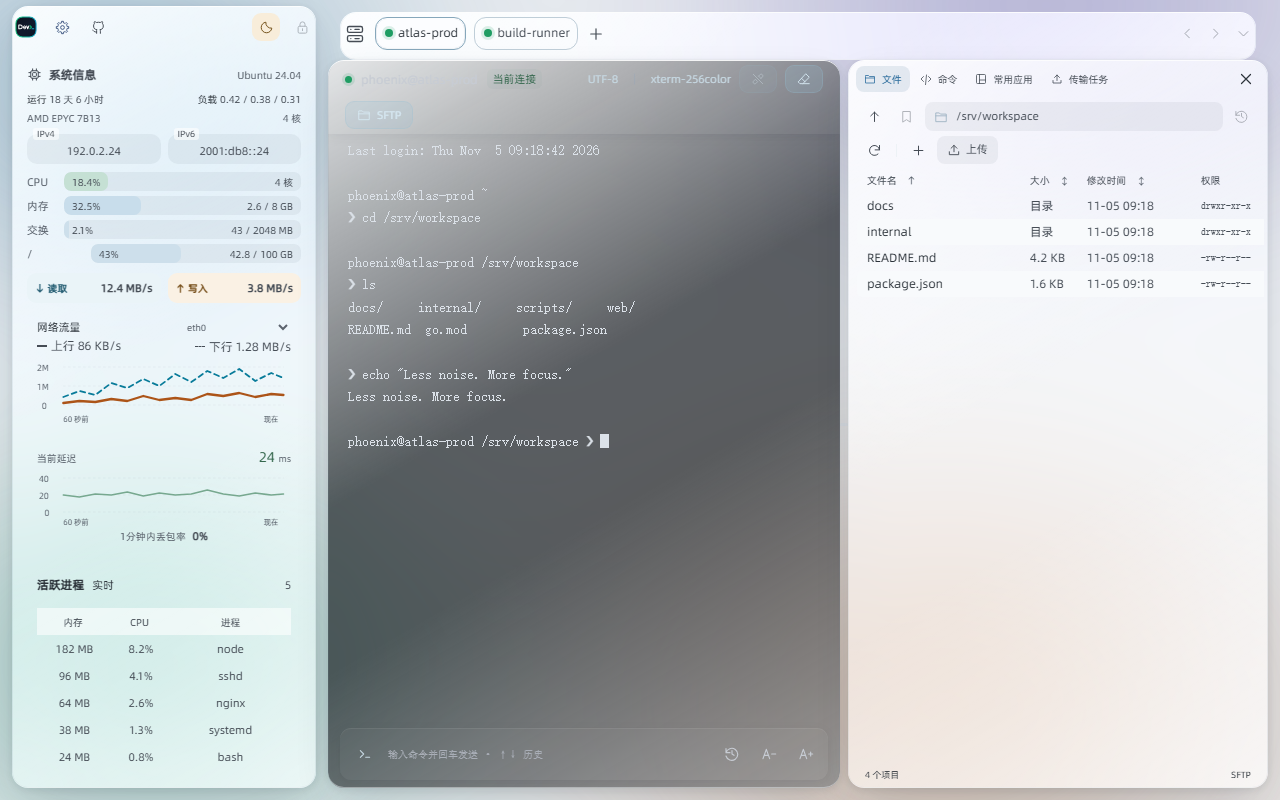
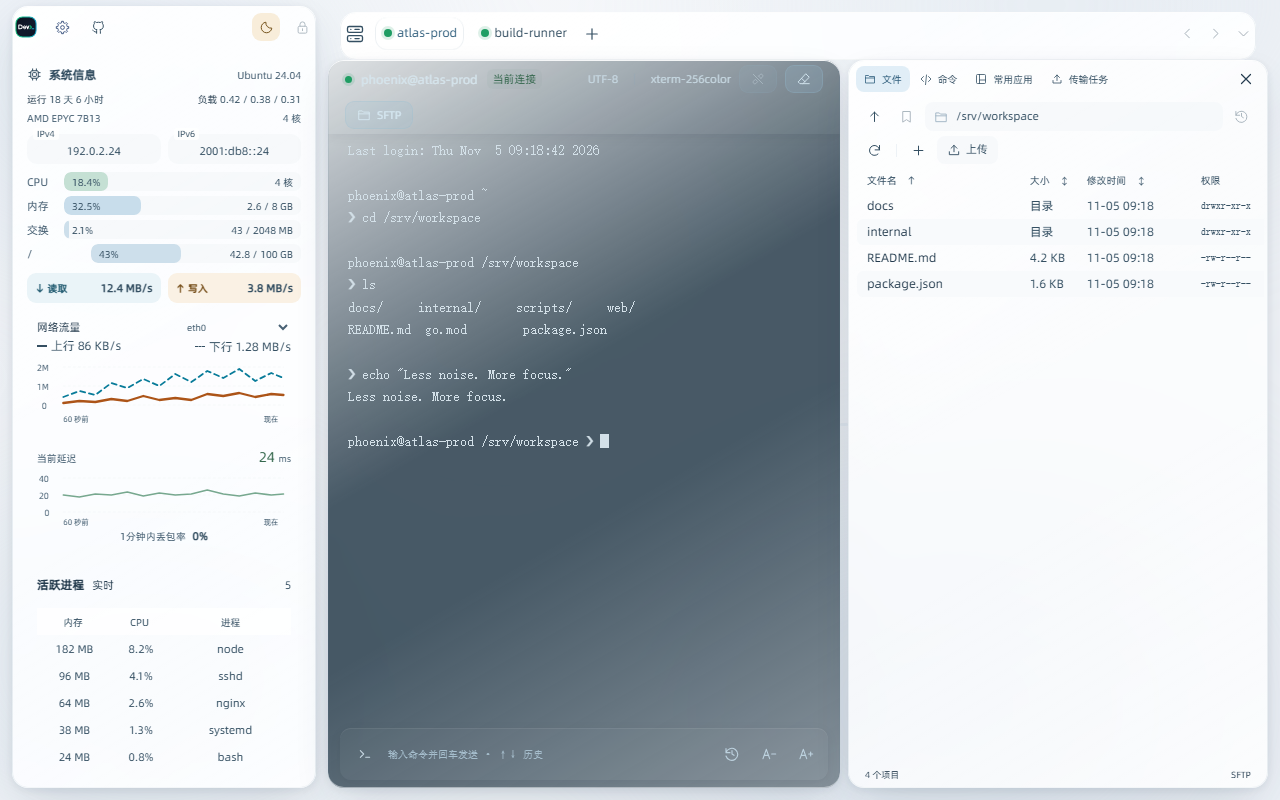
液态玻璃改为经典配色之上加玻璃材质
之前自造湖蓝湖青等冷调色板，与 shell 主内容区（终端石板蓝灰）
视觉打架。现按「先拷贝经典、只把面板填充改半透明」重做：文字、强调、
边框、终端色板全部原样继承经典，frosted 块只覆盖 --surface/--surface-inset
/--surface-hover/--surface-selected/--shadow/background 为经典同色加透明度；
底层光斑色相改取经典强调色同族的蓝，不再引入经典之外的颜色。
同步撤销 JS 里 frosted 定制墨色（appearance/ui-appearance/预览脚本）与
主题卡片文案；回退链与浅色深色一并统一到经典蓝灰家族。

验证：npm run check、test:theme、test:tcp 通过；重新生成预览，
浅色（经典白 + 石板蓝终端）深色（#181f26/#0f1419）截图确认与经典同族。

diff --git a/web/css/ui-styles.css b/web/css/ui-styles.css
@@ -30,14 +30,14 @@
 [data-theme="dark"] .ui-style-swatch-classic { background:#0f1419; }
 [data-theme="dark"] .ui-style-swatch-classic :is(i,b) { background:#24303a; }
 [data-theme="dark"] .ui-style-swatch-classic em { background:#0f161d; }
-.ui-style-swatch-frosted { background:#22252b; }
-.ui-style-swatch-frosted i { inset:0 auto 0 0; width:29%; border-radius:0; background:#2e3238b3; border-right:1px solid #ffffff20; box-shadow:inset -14px 0 26px -14px #4f97d466; }
-.ui-style-swatch-frosted b { background:#383c43cc; box-shadow:inset 0 1px #ffffff4d; }
-.ui-style-swatch-frosted em { background:#181a1da6; box-shadow:inset 0 1px #ffffff33,0 0 22px #4f97d433; }
-[data-theme="light"] .ui-style-swatch-frosted { background:#dde2e9; }
-[data-theme="light"] .ui-style-swatch-frosted i { background:#ffffff8c; border-color:#3c4d5f33; }
+.ui-style-swatch-frosted { background:#0f1419; }
+.ui-style-swatch-frosted i { inset:0 auto 0 0; width:29%; border-radius:0; background:#181f26b3; border-right:1px solid #ffffff26; box-shadow:inset -14px 0 26px -14px #658daf59; }
+.ui-style-swatch-frosted b { background:#181f26d9; box-shadow:inset 0 1px #ffffff3d; }
+.ui-style-swatch-frosted em { background:#0f161db3; box-shadow:inset 0 1px #ffffff2e,0 0 22px #658daf3d; }
+[data-theme="light"] .ui-style-swatch-frosted { background:#e7edf3; }
+[data-theme="light"] .ui-style-swatch-frosted i { background:#ffffffa6; border-color:#658daf33; }
 [data-theme="light"] .ui-style-swatch-frosted b { background:#ffffffd9; box-shadow:inset 0 1px #fff; }
-[data-theme="light"] .ui-style-swatch-frosted em { background:#1d2126bf; box-shadow:inset 0 1px #ffffff2e; }
+[data-theme="light"] .ui-style-swatch-frosted em { background:#223746cc; box-shadow:inset 0 1px #ffffff2e; }
 .ui-style-swatch-polar { background:#20242c; }
 .ui-style-swatch-polar i { background:#2e3440dd; border-right:1px solid #434c5e; }
 .ui-style-swatch-polar b { background:#3b4252; }
@@ -57,46 +57,49 @@
 #ui-styles-dialog .ui-style-status { margin:0; min-height:18px; font-size:12px; color:var(--muted); }
 @media(max-width:520px) { #ui-styles-dialog { padding:18px; } .ui-style-grid { gap:10px; } .ui-style-swatch { height:88px; } }
 
-/* —— 液态玻璃：折射底层色彩并在边缘聚光的半透明材质（经典配色不受影响）。
-   区别于平铺磨砂：面板更透明、底衬采样加强饱和，让底层流动的光色透过玻璃；
-   边缘高光与内阴影模拟透镜聚光，表面罩一层镜面光泽，配长而弥散的投影，
-   面板像悬浮在内容之上的玻璃板。样式键保持 frosted，仅展示名改为液态玻璃。 —— */
+/* —— 液态玻璃：在经典主题原版配色之上加折射玻璃材质。
+   文字、强调色、边框、终端色板全部原样继承经典，不改色板；只是面板填充
+   变为半透明：背景模糊折射、边缘聚光高光、镜面光泽与长投影让它像悬浮
+   的玻璃板。样式键保持 frosted，展示名为液态玻璃。 —— */
 :root[data-ui-style="frosted"][data-theme] {
-  --glass-base:#2a2c30; --glass-sheen:linear-gradient(150deg,#ffffff22,#ffffff00 42%,#ffffff00 58%,#ffffff0f);
-  --glass-surface:rgb(45 47 51 / .66); --glass-toolbar:rgb(56 58 62 / .64);
-  --glass-sidebar:rgb(45 47 51 / .68); --glass-popup:rgb(48 50 54 / .84); --glass-input:rgb(232 240 250 / .07);
-  --glass-terminal:rgb(19 21 23 / .64); --glass-solid:#313338; --glass-terminal-solid:#1b1d20;
-  --glass-edge:inset 0 1px 0 #ffffff55,inset 0 -1px 0 #ffffff14,inset 0 0 0 1px #ffffff14;
-  --surface:var(--glass-surface); --surface-inset:var(--glass-input); --surface-hover:#ffffff12; --surface-selected:#9fc4e024;
-  --text:#e7eaf0; --text-secondary:#c9cdd5; --muted:#a9adb6; --text-faint:#979ca6; --accent:#93c2e8; --border:#ffffff20;
-  --focus-surface:#93c2e826; --focus-input:#3a3d42; --primary-focus:#5f89ab; --shadow:0 16px 44px -12px #00000066,0 2px 10px #00000038;
-  color-scheme:dark; background:var(--glass-base); color:var(--text);
+  --glass-base:#0f1419;
+  --glass-sheen:linear-gradient(150deg,#ffffff1a,#ffffff00 42%,#ffffff00 58%,#ffffff0c);
+  --glass-surface:rgb(24 31 38 / .7); --glass-toolbar:rgb(24 31 38 / .68);
+  --glass-sidebar:rgb(21 28 35 / .66); --glass-popup:rgb(24 31 38 / .88); --glass-input:rgb(19 26 33 / .62);
+  --glass-terminal:rgb(15 22 29 / .8); --glass-solid:#181f26; --glass-terminal-solid:#0f161d;
+  --glass-edge:inset 0 1px 0 #ffffff30,inset 0 -1px 0 #ffffff0d,inset 0 0 0 1px #ffffff10;
+  --surface:var(--glass-surface); --surface-inset:var(--glass-input);
+  --surface-hover:rgb(36 48 58 / .6); --surface-selected:rgb(33 57 72 / .72);
+  --shadow:0 16px 44px -12px #00000080,0 2px 10px #00000044;
+  color-scheme:dark; background:var(--glass-base);
 }
 :root[data-ui-style="frosted"][data-theme="light"] {
-  --glass-base:#e9ecf0; --glass-sheen:linear-gradient(150deg,#ffffffd8,#ffffff00 44%,#ffffff00 60%,#ffffff66);
-  --glass-surface:rgb(255 255 255 / .58); --glass-toolbar:rgb(255 255 255 / .64);
-  --glass-sidebar:rgb(255 255 255 / .48); --glass-popup:rgb(252 253 255 / .84); --glass-input:rgb(35 55 75 / .06);
-  --glass-terminal:rgb(23 26 30 / .68); --glass-solid:#f3f5f7; --glass-terminal-solid:#1b1e21;
-  --glass-edge:inset 0 1px 0 #ffffffe0,inset 0 -1px 0 #ffffff66,inset 0 0 0 1px #7f93a724;
-  --surface:var(--glass-surface); --surface-inset:var(--glass-input); --surface-hover:#2f42560e; --surface-selected:#38678d1f;
-  --text:#2c333a; --text-secondary:#454c55; --muted:#5c646e; --text-faint:#707881; --accent:#2f6f9e; --border:#38495b22;
-  --focus-surface:#38678d1e; --focus-input:#fffffff2; --primary-focus:#2f6f9e; --shadow:0 16px 44px -12px #26364633,0 2px 10px #26364617;
+  --glass-base:#f0f3f7;
+  --glass-sheen:linear-gradient(150deg,#ffffffd0,#ffffff00 44%,#ffffff00 60%,#ffffff59);
+  --glass-surface:rgb(255 255 255 / .72); --glass-toolbar:rgb(255 255 255 / .74);
+  --glass-sidebar:rgb(255 255 255 / .66); --glass-popup:rgb(255 255 255 / .9); --glass-input:rgb(244 247 249 / .75);
+  --glass-terminal:rgb(34 55 70 / .82); --glass-solid:#ffffff; --glass-terminal-solid:#223746;
+  --glass-edge:inset 0 1px 0 #ffffffe6,inset 0 -1px 0 #ffffff7a,inset 0 0 0 1px #64809a1f;
+  --surface:var(--glass-surface); --surface-inset:var(--glass-input);
+  --surface-hover:#e9eef4cc; --surface-selected:#d6e8f4b8;
+  --shadow:0 16px 44px -12px #293f5630,0 2px 10px #293f5614;
   color-scheme:light;
 }
-[data-ui-style="frosted"][data-theme="light"] body::before { opacity:.42; }
-[data-ui-style="frosted"][data-theme="light"] :is(.primary-button,.dialog-actions .primary-button) { background:#2f6f9e; color:#fff; }
 [data-ui-style="frosted"] body { background:var(--glass-base); color:var(--text); isolation:isolate; }
+[data-ui-style="frosted"][data-theme="light"] body { background:radial-gradient(ellipse at 15% 0%,#f9fafc,#f0f3f7 70%); }
 /* 底层大色斑缓慢漂移，为玻璃提供可折射的流动光色——液态玻璃的「液态」。
-   深色下压低强度：光色是透过玻璃的折射，不该把画布染浊。 */
-[data-ui-style="frosted"] body::before { content:""; position:fixed; z-index:-1; pointer-events:none; inset:-14%; opacity:.45;
-  background:radial-gradient(38% 44% at 22% 22%,#35708f,#0000 62%),radial-gradient(42% 38% at 76% 14%,#4a418f,#0000 64%),radial-gradient(46% 50% at 70% 80%,#8a5a35,#0000 62%),radial-gradient(40% 42% at 24% 76%,#2a7a66,#0000 64%);
-  filter:blur(80px) saturate(1.25); animation:liquid-drift 36s ease-in-out infinite alternate; }
+   色相取经典强调色同族的蓝：光色是折射，不引入经典色板之外的颜色。 */
+[data-ui-style="frosted"] body::before { content:""; position:fixed; z-index:-1; pointer-events:none; inset:-14%; opacity:.5;
+  background:radial-gradient(38% 44% at 22% 22%,#31536e,#0000 62%),radial-gradient(42% 38% at 76% 14%,#25405a,#0000 64%),radial-gradient(46% 50% at 70% 80%,#1c3145,#0000 62%),radial-gradient(40% 42% at 24% 76%,#3a5f7d,#0000 64%);
+  filter:blur(80px); animation:liquid-drift 36s ease-in-out infinite alternate; }
+[data-ui-style="frosted"][data-theme="light"] body::before {
+  background:radial-gradient(38% 44% at 22% 22%,#c9d8e6,#0000 62%),radial-gradient(42% 38% at 76% 14%,#d7e2ec,#0000 64%),radial-gradient(46% 50% at 70% 80%,#c2d2e1,#0000 62%),radial-gradient(40% 42% at 24% 76%,#d3e0ea,#0000 64%); }
 @keyframes liquid-drift { from { transform:translate3d(-2.5%,-1.5%,0) scale(1.05); } to { transform:translate3d(2.5%,2%,0) scale(1.14); } }
-[data-ui-style="frosted"] .sidebar { background:var(--glass-sheen),var(--glass-sidebar); backdrop-filter:blur(26px) saturate(1.7) brightness(1.04); -webkit-backdrop-filter:blur(26px) saturate(1.7) brightness(1.04); box-shadow:var(--glass-edge),inset -1px 0 var(--border),var(--shadow); }
+[data-ui-style="frosted"] .sidebar { background:var(--glass-sheen),var(--glass-sidebar); backdrop-filter:blur(26px) saturate(1.2) brightness(1.03); -webkit-backdrop-filter:blur(26px) saturate(1.2) brightness(1.03); box-shadow:var(--glass-edge),inset -1px 0 var(--border),var(--shadow); }
 /* 宽屏下监控栏是与终端、文件面板同语言的悬浮玻璃卡：16px 圆角、四周留
    网格缝、同一套边缘高光与投影；栏内卡片仍全部融入卡面，不再成盒。
    窄屏抽屉保持通高面板避免压字。 */
-:root:not([data-narrow="true"])[data-ui-style="frosted"] .sidebar { background:var(--glass-sheen),var(--glass-sidebar); box-shadow:var(--glass-edge),var(--shadow); backdrop-filter:blur(26px) saturate(1.7) brightness(1.04); -webkit-backdrop-filter:blur(26px) saturate(1.7) brightness(1.04); border-radius:16px; }
+:root:not([data-narrow="true"])[data-ui-style="frosted"] .sidebar { background:var(--glass-sheen),var(--glass-sidebar); box-shadow:var(--glass-edge),var(--shadow); backdrop-filter:blur(26px) saturate(1.2) brightness(1.03); -webkit-backdrop-filter:blur(26px) saturate(1.2) brightness(1.03); border-radius:16px; }
 /* 玻璃面上不留硬描边：芯片只靠底面色差成块，面板内分隔用明暗差完成，
    不出现直角发丝线。输入控件的细边框保留（那是控件，不是卡片）。 */
 [data-ui-style="frosted"] .address-copy { border:0; border-radius:10px; }
@@ -107,31 +110,25 @@
    列表行内保留极淡的发丝线即可。 */
 [data-ui-style="frosted"] .sidebar :is(.system-section,.host-card,.disk-section,.network-card,.process-card,.process-details,.disk-resources,.disk-io) { background:transparent; border:0; border-radius:0; box-shadow:none; backdrop-filter:none; -webkit-backdrop-filter:none; }
 [data-ui-style="frosted"] .sidebar :is(.disk-row + .disk-row,.process-table tbody tr + tr,.metric + .metric,.file-status) { border-color:var(--border); }
-[data-ui-style="frosted"] .files-panel { background:var(--glass-sheen),var(--glass-surface); box-shadow:var(--glass-edge),var(--shadow); backdrop-filter:blur(22px) saturate(1.7); -webkit-backdrop-filter:blur(22px) saturate(1.7); }
+[data-ui-style="frosted"] .files-panel { background:var(--glass-sheen),var(--glass-surface); box-shadow:var(--glass-edge),var(--shadow); backdrop-filter:blur(22px) saturate(1.2); -webkit-backdrop-filter:blur(22px) saturate(1.2); }
 /* Keep fixed window controls relative to the viewport: backdrop-filter on the
    header itself would create a new containing block for the floating brand. */
 [data-ui-style="frosted"] .session-bar { position:relative; isolation:isolate; background:transparent; backdrop-filter:none; -webkit-backdrop-filter:none; margin:6px var(--workspace-inset) 0; border-radius:16px; }
-[data-ui-style="frosted"] .session-bar::before { content:""; position:absolute; z-index:-1; inset:0; pointer-events:none; background:var(--glass-sheen),var(--glass-toolbar); border-radius:inherit; box-shadow:var(--glass-edge); backdrop-filter:blur(24px) saturate(1.7) brightness(1.04); -webkit-backdrop-filter:blur(24px) saturate(1.7) brightness(1.04); }
+[data-ui-style="frosted"] .session-bar::before { content:""; position:absolute; z-index:-1; inset:0; pointer-events:none; background:var(--glass-sheen),var(--glass-toolbar); border-radius:inherit; box-shadow:var(--glass-edge); backdrop-filter:blur(24px) saturate(1.2) brightness(1.03); -webkit-backdrop-filter:blur(24px) saturate(1.2) brightness(1.03); }
 [data-ui-style="frosted"] .session-bar .brand { border-color:var(--border); }
 [data-ui-style="frosted"] .session-bar .window-controls { background:var(--surface-inset); }
-[data-ui-style="frosted"] .session-tab { color:var(--muted); background:transparent; }
-[data-ui-style="frosted"] .session-tab.active { background:var(--glass-popup); color:var(--text); box-shadow:var(--glass-edge); }
-[data-ui-style="frosted"] .terminal-panel { background:var(--glass-sheen),var(--glass-terminal); box-shadow:var(--glass-edge),var(--shadow); backdrop-filter:blur(22px) saturate(1.5); -webkit-backdrop-filter:blur(22px) saturate(1.5); }
+[data-ui-style="frosted"] .session-tab { background:transparent; border:0; border-radius:12px; }
+[data-ui-style="frosted"] .session-tab.active { background:var(--glass-popup); box-shadow:var(--glass-edge); }
+[data-ui-style="frosted"] .terminal-panel { background:var(--glass-sheen),var(--glass-terminal); box-shadow:var(--glass-edge),var(--shadow); backdrop-filter:blur(22px) saturate(1.15); -webkit-backdrop-filter:blur(22px) saturate(1.15); }
 [data-ui-style="frosted"] .terminal-panel::before,[data-ui-style="frosted"] .terminal-panel::after { display:none; background-image:none; }
 [data-ui-style="frosted"] .terminal-panel :is(.terminal-meta,.terminal-command-bar) { background:#ffffff08; border-color:#ffffff16; backdrop-filter:none; -webkit-backdrop-filter:none; }
-[data-ui-style="frosted"] .terminal-panel :is(.terminal-tool,.terminal-protocol,#terminal-meta-host) { color:#c7ccd4; }
-[data-ui-style="frosted"] .terminal-panel .terminal-command-bar textarea { color:#dfe3e9; }
-[data-ui-style="frosted"] .terminal-panel .terminal-command-bar textarea::placeholder { color:#a9aeb7; }
-[data-ui-style="frosted"] .terminal-panel .terminal-tool:hover { background:#ffffff14; color:#fff; }
 [data-ui-style="frosted"] :is(dialog,.connections-drawer,.settings-menu,.popup-menu,.themed-select-popup) { background:var(--glass-sheen),var(--glass-popup); color:var(--text); border-color:var(--border); box-shadow:0 22px 64px #00000055,var(--glass-edge); backdrop-filter:blur(30px) saturate(1.6); -webkit-backdrop-filter:blur(30px) saturate(1.6); }
 [data-ui-style="frosted"] :is(.specs,.cpu-model,.metric,.chart-caption,.process-heading,.disk-row,.file-status,.file-table,.tree-row,.tree-shortcut,.connection-card-text,.drawer-heading h2,dialog h2,.brand) { color:var(--text); }
 [data-ui-style="frosted"] :is(.process-table,.file-table) :is(th,td),[data-ui-style="frosted"] .system-section :is(h2,b,strong) { color:var(--text-secondary); border-color:var(--border); }
 [data-ui-style="frosted"] :is(.file-table thead,.files-toolbar,.file-tabs,.file-status,.directory-tree,.commands-toolbar,.transfer-notice) { background:transparent; border-color:var(--border); }
 [data-ui-style="frosted"] :is(.file-search,.path-form,.connection-search,.meter,dialog input,dialog select,dialog textarea,.server-icon,.themed-select-trigger,.count-badge,.upload-button) { background:var(--glass-input); color:var(--text); border-color:var(--border); }
 [data-ui-style="frosted"] :is(.connection-card,.tree-row,.tree-shortcut,.file-tab).selected,[data-ui-style="frosted"] .file-tab.active,[data-ui-style="frosted"] .file-table tr.selected { background:var(--surface-selected); color:var(--accent); }
-[data-ui-style="frosted"] :is(.primary-button,.dialog-actions .primary-button) { background:#5f89ab; color:#f2f7fc; }
 [data-ui-style="frosted"] button:focus-visible { outline:2px solid var(--accent); outline-offset:2px; }
-[data-ui-style="frosted"] :is(#appearance-dialog .font-list .font-sample,.font-preview,.ui-color-sample.dark,.color-dialog-preview,#diagnostics-output) { background:var(--glass-terminal-solid); color:#dbe1e8; border-color:var(--border); }
 /* Stable opaque equivalents preserve readability when transparency is unavailable. */
 @supports not ((backdrop-filter:blur(1px)) or (-webkit-backdrop-filter:blur(1px))) {
   [data-ui-style="frosted"] body::before { display:none; }

diff --git a/web/js/help-guide.js b/web/js/help-guide.js
@@ -18,7 +18,7 @@
     { id: 'monitor', title: '系统、进程与磁盘', icon: 'cpu', html: `<p>左侧上方以对应操作系统图标和完整名称突出显示发行版，并显示当前服务器的运行时间、CPU、内存、交换空间和负载；活跃进程常驻显示前五，可按 CPU 或内存切换排名。点击进程区域打开独立的完整进程标签，支持按 PID、名称或状态搜索，以及 CPU、内存、PID、状态和名称排序。每页显示 50、100 或 200 行；每个服务器保留自己的搜索和分页。可暂停自动刷新，切走进程标签后停止该页面请求。完整列表的 RSS 使用轻量内核计数，估算值带“≈”；侧栏只对前五候选精读内存。大量进程或采集较慢时自动降低刷新频率，失败会保留上次数据并提示。</p><p>网络流量每<strong>1秒</strong>独立采样，负载、CPU、内存和磁盘速率每<strong>5秒</strong>采样；网卡元信息和磁盘容量约30秒刷新。每条已连接SSH的网卡流量在后台持续记录，切换标签或最小化也保留最近30秒真实历史；回到标签时立即显示。负载、CPU、内存和磁盘等其它采样仍按可见状态请求。网络使用远端实际时间差计算，SSH或TUN返回延迟不会被当成远端采样间隔。读数明确标注“上行”和“下行”，例如上行4.0 KiB/s、下行819 B/s。默认上行橙色实线、下行蓝色虚线，可在“设置 → 外观配置 → 曲线样式”中分别调整颜色、粗细和线型；刻度按最近<strong>60秒</strong>数据自动切换B/s、KiB/s、MiB/s、GiB/s刻度（1024进位），新峰值立即扩大范围，较小范围稳定5秒后缩小。缺测保留断点，不填入假零值。下方磁盘区域汇总已挂载本地磁盘文件系统的已用、可用和总计空间，包括独立的 /home、/data 等分区；同一文件系统的重复挂载只计算一次，排除内存盘、网络挂载、容器叠加层及 SWAP。容量以文件系统报告值为准，不包含未挂载空间，可用空间可能因文件系统保留空间而少于总计减已用。容器或存储池根文件系统无法安全合计时，保留根文件系统容量。读写速度仍显示在下方，悬停容量区域可查看参与汇总的路径。</p><p>IPv4/IPv6面板只显示可确认的公网地址，点击复制，悬停查看来源；可能显示SSH入口或网卡地址。NAT入口不等于服务器出口，无法确认时显示“—”。真实内网地址仍保留在网卡菜单提示中。</p><p>这些数值来自远程服务器的周期采样，不是本机硬件数据。刚连接时需要等待首轮采样；部分权限或系统接口不可用时可能显示“—”。较窄窗口可通过顶部芯片图标打开侧栏。</p>` },
     { id: 'network', title: 'ICMP 与 MTR 网络诊断', icon: 'network', html: `<p>ICMP 区域展示本机到服务器的当前延迟、最近 1 分钟丢包率和延迟连续曲线。曲线从左到右由旧到新，经过真实采样并保留峰值；丢包和缺测位置断开。刻度与曲线使用同一坐标系；左侧毫秒刻度按当前样本调整，非零起点有断轴标记。成功回包使用同一种颜色，红叉代表超时或不可达（延迟未知），灰点代表待回包或本机探测不可用。悬停可查看时间、读数和状态，也可聚焦图表后用左右方向键逐项查看。</p><p>点击网络区域可打开 MTR 诊断。可以从本机探测服务器，也可以从远程服务器探测你指定的目标，查看每一跳的响应和可用的 ASN 信息。</p><ul><li>缺少 <code>mtr</code> 时，界面会显示安装方案和命令，只有明确确认后才开始安装。</li><li>需要交互验证时，按提示在对应终端完成；安装后可以重新检测。</li><li>中间路由器可能不响应或限制探测包，单个中间节点不回复不能直接判断业务流量丢包。</li><li>代理、TUN、路由和目标是否允许 ICMP，都会影响结果。ICMP 数值不是 SSH 会话的按键响应计时。</li></ul>` },
     { id: 'fonts', title: '字体、加粗与文字颜色', icon: 'type', html: `<p>左上角设置 → 外观配置 → <strong>Shell 字体与颜色</strong>打开字体管理器。内置 JetBrains Mono、Fira Code、Source Code Pro、IBM Plex Mono、Maple Mono CN 五款字体，Maple 同时补齐中文。在线字体库提供 30 款 Shell 字体，确认后下载并保存到本机；也可导入 TTF、OTF、WOFF、WOFF2 字体。</p><ul><li>点击字体卡片立即切换终端字体；字号控件与终端 A− / A+ 均按 <strong>0.5 px</strong> 调整，范围为 8–40 px。可输入例如 14.5，选择会保存，重启后保留。</li><li>每张卡片都有独立的<strong>加粗</strong>和<strong>颜色</strong>控件，颜色按钮打开可拖动的配色窗口。可用预设色、颜色选择器、RGB 数值或 HEX 颜色。</li><li>当前字体的修改立即预览；修改其他卡片只保存那款字体的样式，切换过去后再应用。</li><li>字体管理器可拖动，不遮暗终端，方便观察真实显示效果。可以删除自行导入的字体。</li></ul><p>外观配置中的<strong>提示符颜色</strong>可分别调整 @ 前的用户名和 @ 后的主机名，支持预设色、RGB、HEX 和拖动预览；Bash / Zsh / Fish 在下次提示符出现时生效，两项选择“保持原样”恢复原提示符。终端默认文字颜色可自定义，远程程序主动设置的 ANSI 颜色仍保留其含义。自定义字体的符号覆盖和等宽效果取决于字体本身。</p>` },
-    { id: 'appearance', title: '背景、主题、布局与缩放', icon: 'image', html: `<p>设置 → 外观配置 → <strong>背景管理器</strong>可选择内置背景或导入 PNG、JPG、WebP 图片，并调整显示强度。选择后立即应用；面板可拖动，自定义背景可删除。</p><ul><li>外观配置中的<strong>终端 ANSI 颜色</strong>提供柔和、高饱和、鲜亮三套 16 色预设，本地调整 ls、vim 等程序彩色文件名等语义色，切换即时生效；真彩色与 256 色不受影响。</li><li>外观配置中的<strong>全局主题</strong>提供经典、液态玻璃、极地、夜幕四种整套界面材质，切换会重绘面板、菜单、对话框与强调色，并与明暗模式、字体、ANSI、背景与布局互相独立；液态玻璃面板高度透明并加强底衬饱和，底层光色透过玻璃折射流动、边缘带聚光高光与镜面光泽，不使用背景图（原背景选择会保留），系统不支持透明模糊或开启减少透明度时自动回退同色实底；极地为 Nord 式北极冷调，夜幕为 Tokyo Night 式深夜蓝紫，两者两种明暗下终端都保持深色阅读底。选择后立即生效并保存。</li><li>外观配置中的<strong>明暗跟随系统</strong>让Windows和Linux随桌面偏好切换主题，选择会保存。左上角太阳 / 月亮按钮手动切换浅色和深色时会退出跟随；重新打开该开关即可恢复。系统变化和手动变化都使用开灯/关灯渐变。</li><li>默认最小窗口宽度为 1100 px（小屏幕以可用工作区为限）。监控栏宽度固定为 304 px，右侧 SFTP 面板宽度固定为 420 px；打开右侧面板会扩展窗口，关闭时收回扩展的宽度。最大化或屏幕空间不足时自动调整缩放，保证工具按钮可见。上方、下方的 SFTP 面板仍可拖动分隔条调整高度；SFTP 面板的位置（终端下方／右侧／上方）统一在设置的「SFTP面板」中选择，面板内右上角的按钮只用于关闭面板；「跟随终端目录」也同样是设置中的下拉选择，默认开启。</li><li>设置中的<strong>界面缩放</strong>调整整个应用；终端的字号按钮只改变终端文字。</li><li>设置中的<strong>简洁模式</strong>一键隐藏监控面板、SFTP 面板与终端标题栏（含断开、固定、SFTP 按钮），并把底部命令输入条自动收起为左侧按钮（点按钮可临时展开）；关闭开关后监控面板与标题栏恢复，SFTP 面板不自动展开，需要时手动打开。</li><li>窗口较小时会适当限制实际缩放，避免控件被挤出窗口；放大窗口后恢复所选比例。</li><li>外观配置中的<strong>主题管理</strong>把当前整套外观（明暗模式、全局主题、界面与终端字体颜色、ANSI 预设、背景与强度、终端字号、曲线样式、提示符颜色）保存为独立主题：从当前外观新建，支持应用、重命名、复制与两步确认删除。应用时整套生效；主题引用的字体或背景若已被删除会报错并保持当前外观不变。主题不影响布局与界面缩放。</li><li>外观配置中的“恢复默认布局”恢复布局和终端字号。</li></ul>` },
+    { id: 'appearance', title: '背景、主题、布局与缩放', icon: 'image', html: `<p>设置 → 外观配置 → <strong>背景管理器</strong>可选择内置背景或导入 PNG、JPG、WebP 图片，并调整显示强度。选择后立即应用；面板可拖动，自定义背景可删除。</p><ul><li>外观配置中的<strong>终端 ANSI 颜色</strong>提供柔和、高饱和、鲜亮三套 16 色预设，本地调整 ls、vim 等程序彩色文件名等语义色，切换即时生效；真彩色与 256 色不受影响。</li><li>外观配置中的<strong>全局主题</strong>提供经典、液态玻璃、极地、夜幕四种整套界面材质，切换会重绘面板、菜单、对话框与强调色，并与明暗模式、字体、ANSI、背景与布局互相独立；液态玻璃沿用经典配色，只把面板换成高度透明的折射玻璃，底层光色透过玻璃流动、边缘带聚光高光与镜面光泽，不使用背景图（原背景选择会保留），系统不支持透明模糊或开启减少透明度时自动回退同色实底；极地为 Nord 式北极冷调，夜幕为 Tokyo Night 式深夜蓝紫，两者两种明暗下终端都保持深色阅读底。选择后立即生效并保存。</li><li>外观配置中的<strong>明暗跟随系统</strong>让Windows和Linux随桌面偏好切换主题，选择会保存。左上角太阳 / 月亮按钮手动切换浅色和深色时会退出跟随；重新打开该开关即可恢复。系统变化和手动变化都使用开灯/关灯渐变。</li><li>默认最小窗口宽度为 1100 px（小屏幕以可用工作区为限）。监控栏宽度固定为 304 px，右侧 SFTP 面板宽度固定为 420 px；打开右侧面板会扩展窗口，关闭时收回扩展的宽度。最大化或屏幕空间不足时自动调整缩放，保证工具按钮可见。上方、下方的 SFTP 面板仍可拖动分隔条调整高度；SFTP 面板的位置（终端下方／右侧／上方）统一在设置的「SFTP面板」中选择，面板内右上角的按钮只用于关闭面板；「跟随终端目录」也同样是设置中的下拉选择，默认开启。</li><li>设置中的<strong>界面缩放</strong>调整整个应用；终端的字号按钮只改变终端文字。</li><li>设置中的<strong>简洁模式</strong>一键隐藏监控面板、SFTP 面板与终端标题栏（含断开、固定、SFTP 按钮），并把底部命令输入条自动收起为左侧按钮（点按钮可临时展开）；关闭开关后监控面板与标题栏恢复，SFTP 面板不自动展开，需要时手动打开。</li><li>窗口较小时会适当限制实际缩放，避免控件被挤出窗口；放大窗口后恢复所选比例。</li><li>外观配置中的<strong>主题管理</strong>把当前整套外观（明暗模式、全局主题、界面与终端字体颜色、ANSI 预设、背景与强度、终端字号、曲线样式、提示符颜色）保存为独立主题：从当前外观新建，支持应用、重命名、复制与两步确认删除。应用时整套生效；主题引用的字体或背景若已被删除会报错并保持当前外观不变。主题不影响布局与界面缩放。</li><li>外观配置中的“恢复默认布局”恢复布局和终端字号。</li></ul>` },
     { id: 'config', title: '配置、备份与换电脑', icon: 'folder', html: `<p>设置 → <strong>连接配置文档</strong>可查看实际保存位置并复制路径。便携版默认使用程序旁 data 目录；deb 版使用用户配置目录。</p><ol><li><strong>升级：</strong>在同一目录中替换可执行程序，保留配置文件和资源。</li><li><strong>备份或换电脑：</strong>一起复制 <code>devshell.config.enc</code>、<code>devshell.config.key</code>、<code>assets/</code> 和 <code>keys/</code>，不要只复制加密配置文件。</li><li><strong>恢复：</strong>退出应用，将整套备份放回实际配置目录，再启动。手动指定的外部私钥需要另行复制并检查路径。</li></ol><p>多个窗口共享同一配置服务，保存时只合并实际修改的设置、字体样式键和历史键，避免旧快照覆盖其他窗口的新设置；同一项同时修改时以最后成功保存为准。程序使用旁边的密钥文件自动解锁配置；加密不防止文件被删除。新程序目录没有配置时不会自动读取旧的用户目录，请按“连接配置文档”中的迁移说明处理。具体位置以应用显示的实际路径为准。</p>` },
     { id: 'startup', title: '启动、版本与再次查看帮助', icon: 'settings', html: `<p>首次功能引导会在版本提示结束后出现；“暂时结束”、关闭按钮或 <kbd>Esc</kbd> 都可以提前结束，并记录为已查看。</p><p>启动时可检查版本信息。发现新版本时显示当前版本、新版本和更新说明，可以选择“稍后再说”。Windows、Debian/Ubuntu 和 Arch pacman 版确认在线升级后会下载、验证发行签名并安装更新；Linux 安装需要系统授权。旧 Arch 客户端须先手动安装一次 R28 或更新版。其他 Linux 系列可到官网下载 RPM 或通用安装包。替换主程序需要重新启动并断开会话；可备份配置后在原目录手动替换程序。</p><p>设置按钮左侧的书本图标始终是本手册入口。手册支持关键词搜索和章节跳转，下方“重新查看引导”会从第一步重新开始；查看说明不会创建连接或执行命令。</p>` },
     { id: 'file-editor', title: '文件右键菜单与文本编辑器', icon: 'file', html: `<p>双击文件默认进入内置文本编辑器。左侧目录树不响应右键。右侧右键文件或目录可以打开、选择打开方式、删除、快速删除、重命名、打包下载、复制路径及修改权限；空白处右键可以刷新、新建文件或文件夹。</p><p>文本编辑器支持 UTF-8、带 BOM 的 UTF-8 / UTF-16、GB18030、GBK 和 Big5，保留原有 BOM、空格及混合换行。粘贴按剪贴板交付的 Unicode 原样插入；操作系统已经转换的原始字节无法从剪贴板恢复。编码不明确时需手动选择，不猜测后静默保存。单文件最大 8 MiB。</p><p>每个文件拥有独立标签、文本和撤销记录，可同时打开不同服务器的文件。标签显示服务器、文件名及“当前查看”；可移到新的可拖动编辑窗口，每个窗口都有自己的标签栏。收起后通过文件工具栏“文本编辑器”恢复。关闭未保存文件会询问，连接断开后保留草稿供复制。Ctrl+Tab 切换文件，Ctrl+W 关闭当前文件。</p><p>按 Ctrl+S 保存到文件原所属服务器；保存前检查远程文件是否被其他程序改动，原子替换并保留权限与所有者。系统关联在本地打开下载的副本，可指定编辑器可执行文件；外部修改后需要手动上传。右键菜单的<strong>删除</strong>和<strong>快速删除</strong>都先弹出确认框，列出服务器和完整路径；目录删除包含子项且无法撤销。切换页签不会改变已确认的目标；原连接若已断开，本次删除不会执行。打包在本机进行，不占用远程压缩进程。</p>` },

diff --git a/docs/design/global-themes-preview.html b/docs/design/global-themes-preview.html
@@ -43,7 +43,6 @@
   <style>
     /* 只有终端演示文本需要样式；全部控件使用产品 CSS。 */
     .preview-terminal-copy { margin:0; color:var(--terminal-foreground,#d3e0e8); font:14px/1.6 var(--terminal-family,monospace); white-space:pre; }
-    [data-ui-style="frosted"] .preview-terminal-copy { color:#dbe1e8; }
     :root[data-preview-opaque="true"][data-ui-style="frosted"] { --glass-surface:var(--glass-solid); --glass-toolbar:var(--glass-solid); --glass-sidebar:var(--glass-solid); --glass-popup:var(--glass-solid); --glass-terminal:var(--glass-terminal-solid); }
     [data-preview-opaque="true"] body::before { display:none; }
   </style>
@@ -210,7 +209,7 @@
     </div></fieldset>
     <fieldset><legend>工作台样式</legend><div class="ui-style-grid">
       <button type="button" class="ui-style-card" data-ui-style="classic"><span class="ui-style-swatch ui-style-swatch-classic" aria-hidden="true"><i></i><b></b><em></em></span><span class="ui-style-card-heading">经典 <span class="ui-style-selected">✓</span></span><small>沿用熟悉的蓝灰配色；背景图与强度照常可用。</small><span class="ui-style-card-meta">不透明面板 · 全部背景可选</span></button>
-      <button type="button" class="ui-style-card" data-ui-style="frosted"><span class="ui-style-swatch ui-style-swatch-frosted" aria-hidden="true"><i></i><b></b><em></em></span><span class="ui-style-card-heading">液态玻璃 <span class="ui-style-selected">✓</span></span><small>底层光色透过玻璃折射流动，边缘聚光高光；浅色如清水、深色如烟熏。</small><span class="ui-style-card-meta">折射材质 · 不使用背景图（原选择保留）</span></button>
+      <button type="button" class="ui-style-card" data-ui-style="frosted"><span class="ui-style-swatch ui-style-swatch-frosted" aria-hidden="true"><i></i><b></b><em></em></span><span class="ui-style-card-heading">液态玻璃 <span class="ui-style-selected">✓</span></span><small>经典配色原样保留，面板化作半透明折射玻璃；边缘聚光高光，底层光色流动。</small><span class="ui-style-card-meta">经典配色 · 玻璃材质 · 不使用背景图（原选择保留）</span></button>
       <button type="button" class="ui-style-card" data-ui-style="polar"><span class="ui-style-swatch ui-style-swatch-polar" aria-hidden="true"><i></i><b></b><em></em></span><span class="ui-style-card-heading">极地 <span class="ui-style-selected">✓</span></span><small>Nord 式北极冷调，浅色如雪、深色如极夜。</small><span class="ui-style-card-meta">低饱和冷灰蓝 · 青蓝强调色</span></button>
       <button type="button" class="ui-style-card" data-ui-style="twilight"><span class="ui-style-swatch ui-style-swatch-twilight" aria-hidden="true"><i></i><b></b><em></em></span><span class="ui-style-card-heading">夜幕 <span class="ui-style-selected">✓</span></span><small>Tokyo Night 式深夜蓝紫，柔光点缀不刺眼。</small><span class="ui-style-card-meta">深蓝紫夜色 · 蓝紫强调色</span></button>
     </div></fieldset>

diff --git a/web/index.html b/web/index.html
@@ -326,7 +326,7 @@
     </div></fieldset>
     <fieldset><legend>工作台样式</legend><div class="ui-style-grid">
       <button type="button" class="ui-style-card" data-ui-style="classic"><span class="ui-style-swatch ui-style-swatch-classic" aria-hidden="true"><i></i><b></b><em></em></span><span class="ui-style-card-heading">经典 <span class="ui-style-selected">✓</span></span><small>沿用熟悉的蓝灰配色；背景图与强度照常可用。</small><span class="ui-style-card-meta">不透明面板 · 全部背景可选</span></button>
-      <button type="button" class="ui-style-card" data-ui-style="frosted"><span class="ui-style-swatch ui-style-swatch-frosted" aria-hidden="true"><i></i><b></b><em></em></span><span class="ui-style-card-heading">液态玻璃 <span class="ui-style-selected">✓</span></span><small>底层光色透过玻璃折射流动，边缘聚光高光；浅色如清水、深色如烟熏。</small><span class="ui-style-card-meta">折射材质 · 不使用背景图（原选择保留）</span></button>
+      <button type="button" class="ui-style-card" data-ui-style="frosted"><span class="ui-style-swatch ui-style-swatch-frosted" aria-hidden="true"><i></i><b></b><em></em></span><span class="ui-style-card-heading">液态玻璃 <span class="ui-style-selected">✓</span></span><small>经典配色原样保留，面板化作半透明折射玻璃；边缘聚光高光，底层光色流动。</small><span class="ui-style-card-meta">经典配色 · 玻璃材质 · 不使用背景图（原选择保留）</span></button>
       <button type="button" class="ui-style-card" data-ui-style="polar"><span class="ui-style-swatch ui-style-swatch-polar" aria-hidden="true"><i></i><b></b><em></em></span><span class="ui-style-card-heading">极地 <span class="ui-style-selected">✓</span></span><small>Nord 式北极冷调，浅色如雪、深色如极夜。</small><span class="ui-style-card-meta">低饱和冷灰蓝 · 青蓝强调色</span></button>
       <button type="button" class="ui-style-card" data-ui-style="twilight"><span class="ui-style-swatch ui-style-swatch-twilight" aria-hidden="true"><i></i><b></b><em></em></span><span class="ui-style-card-heading">夜幕 <span class="ui-style-selected">✓</span></span><small>Tokyo Night 式深夜蓝紫，柔光点缀不刺眼。</small><span class="ui-style-card-meta">深蓝紫夜色 · 蓝紫强调色</span></button>
     </div></fieldset>

diff --git a/web/js/appearance.js b/web/js/appearance.js
@@ -21,8 +21,8 @@ const fontColorPresets = [
 ];
 const validFontColor = color => typeof color === 'string' && /^#[\da-f]{6}$/i.test(color);
 // Frosted glass paints a dark reading base even in light mode, so its default
-// terminal ink is warm beige; custom per-font colours always win.
-const colorForFont = (id = appearance.fontId) => validFontColor(appearance.fontColors?.[id]) ? appearance.fontColors[id].toLowerCase() : appearance.uiStyle === 'frosted' ? '#dbe1e8' : terminalDefaultColor;
+// 液态玻璃沿用经典终端墨色（不改色板，只加玻璃材质）；每款字体的自定义色始终优先。
+const colorForFont = (id = appearance.fontId) => validFontColor(appearance.fontColors?.[id]) ? appearance.fontColors[id].toLowerCase() : terminalDefaultColor;
 const boldForFont = (id = appearance.fontId) => appearance.fontBold?.[id] === true;
 function normalizeTerminalFontSize(value) { const number=Number(value); return Number.isFinite(number) ? Math.max(8,Math.min(40,Math.round(number*2)/2)) : 14; }
 const ansiPalettes = {

diff --git a/web/js/ui-appearance.js b/web/js/ui-appearance.js
@@ -127,8 +127,8 @@ window.DengUIAppearance = (() => {
   }
   function fillColors() {
     if (!dialog) return;
-    // Frosted glass ships its own warm ink defaults; custom colors still win.
-    const palette = appearance.uiStyle === 'frosted' ? { light: '#2c333a', dark: '#e7eaf0' } : defaults;
+    // 液态玻璃沿用经典默认文字色（不改色板，只加玻璃材质）；自定义色仍优先。
+    const palette = defaults;
     for (const theme of ['light', 'dark']) {
       const row = dialog.querySelector(`[data-ui-color-theme="${theme}"]`), color = appearance.uiTextColors?.[theme] || palette[theme];
       row.querySelector('input[type=color]').value = color;

diff --git a/docs/design/GLOBAL-THEMES.md b/docs/design/GLOBAL-THEMES.md
@@ -24,19 +24,22 @@
 | 样式 | 浅色 | 深色 | 强调 | 模糊 |
 | --- | --- | --- | --- | --- |
 | 经典 | 现状不变 | 现状不变 | 现状 | 无 |
-| 液态玻璃 | 透璃白 rgb(255 255 255/58%) | 烟璃 #2d2f33/62% | 湖蓝 #2f6f9e / #93c2e8 | 侧栏 26px、面板 20–22px、浮层 30px（均加饱和） |
+| 液态玻璃 | 经典配色 · 白玻璃 72% | 经典配色 · 暗玻璃 70% | 经典强调色 | 侧栏 26px、面板 22px、浮层 30px |
 | 极地 | 雪 #f6f9fc | 极夜板 #343c4a | 冰蓝 #3f6d94 / #88c0d0 | 无 |
 | 夜幕 | 日间 #eceef2 | 夜色板 #1f2133 | 蓝 #3763bd / #7aa2f7 | 无 |
 
 - 材质只重绘 CSS 变量（`--surface/--surface-inset/--surface-hover/--surface-selected/
   --text*/--accent/--border/--shadow`）与少量组件规则（顶栏伪元素、连续侧栏、
   终端面板、浮层），不新增布局、不改控件几何；经典完全不受影响。
-- **终端阅读底**：液态玻璃、极地、夜幕在两种明暗下都用深色终端底（液态玻璃
-  #171a1e/68%，实底 #1b1e21；极地 #2b323e/浅 #3b4351；夜幕 #16161e/浅 #2a2f4a），
-  保证 ANSI 语义色可读；液态玻璃默认终端文字冷灰 #dbe1e8，自定义字体颜色优先。
-- 液态玻璃区别于平铺磨砂：面板更透明并加强底衬饱和（saturate 1.5–1.7），底层
-  四团光斑缓慢漂移（`liquid-drift`，`prefers-reduced-motion` 下静止），面板叠加
-  镜面光泽层（`--glass-sheen`）与边缘聚光内阴影（`--glass-edge`），配长弥散投影。
+- **终端阅读底**：液态玻璃沿用经典配色——终端底即经典终端底加透明度（浅
+  #223746/82%，深 #0f161d/80%），文字色与经典一致，自定义字体颜色优先；
+  极地、夜幕用各自色板的深色终端底（极地 #2b323e/浅 #3b4351；
+  夜幕 #16161e/浅 #2a2f4a），保证 ANSI 语义色可读。
+- 液态玻璃区别于平铺磨砂：面板更透明（saturate 约 1.2，底层光斑色相取经典
+  强调色同族的蓝，不引入经典之外的颜色），四团光斑缓慢漂移（`liquid-drift`，
+  `prefers-reduced-motion` 下静止），面板叠加镜面光泽层（`--glass-sheen`）与
+  边缘聚光内阴影（`--glass-edge`），配长弥散投影；宽屏下顶栏与监控栏同为
+  16px 圆角悬浮玻璃卡，与终端、文件面板同一语言，玻璃面上不发丝线描边。
 - 液态玻璃不使用背景图（保存的 `backgroundId` 原样保留，切回经典即恢复）；
   极地/夜幕照常使用背景。
 - 回退：`@supports not (backdrop-filter)` 或 `prefers-reduced-transparency` →
